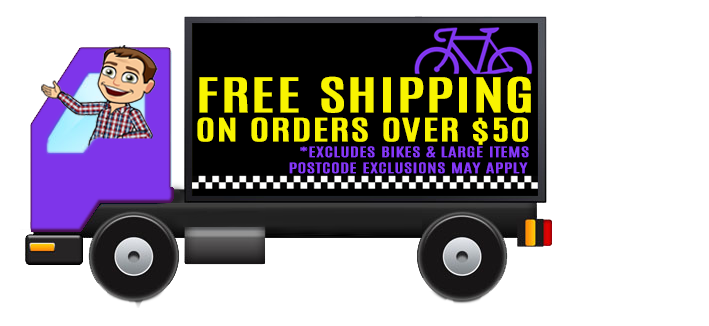
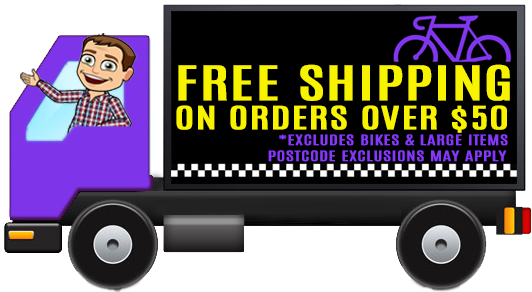
Fix responsive truck img

diff --git a/skin/frontend/tv_bikeworld_package/tv_bikeworld2/css/styles.css b/skin/frontend/tv_bikeworld_package/tv_bikeworld2/css/styles.css
@@ -11723,57 +11723,34 @@ p.welcome-msg {
   font-weight: bold;
 }
 
-.truck-free img {
-  margin-left: 25px;
-  margin-top: 8%;
+.truck-free-desktop img {
+  width: 80%;
+  margin: 15px auto;
+  display: block;
 }
 
 @media  screen and (max-width: 1600px) {
-  .truck-free img {
+  .truck-free-desktop img {
     margin-top: 14%;
   }
 }
 
+.truck-free-mobile {
+  display: none;
+}
+
 @media  screen and (max-width: 990px) {
-  .truck-free {
-    position: absolute;
+  .truck-free-desktop {
+    display: none;
   }
-  .truck-free img {
+
+  .truck-free-mobile {
+    display: block;
+  }
+  .truck-free-mobile img {
     width: 50%;
-    text-align: center;
-    margin: 0 auto;
+    margin: 15px auto;
     display: block;
-    padding-left: 25px;
-  }
-}
-
-@media  screen and (min-width: 466px) and (max-width: 768px) {
-  #search_mini_form {
-    margin-top: 40px;
-  }
-  .truck-free img {
-    width: 40%;
-    text-align: center;
-    margin: 0 auto;
-    display: block;
-    padding-left: 57px;
-    padding-top: 160px;
-  }
-}
-
-@media  screen and (max-width: 376px) {
-  .truck-free img {
-    width: 65%;
-    text-align: center;
-    margin: 0 auto;
-    display: block;
-    padding-left: 0px;
-  }
-}
-
-@media  screen and (max-width: 425px) {
-  .truck-free img {
-    width: 53%;
   }
 }
 
@@ -14515,7 +14492,11 @@ A.awblog_current_comment {
 @media (min-width: 992px) and (max-width: 1200px) {
   /* line 26, ../sass/template/_responsive.scss */
   .header a.logo {
-    padding-top: 8px;
+    padding-top: 28px;
+  }
+
+  .truck-free-desktop img {
+    margin-top: 31%;
   }
 
   /* line 29, ../sass/template/_responsive.scss */
@@ -14542,7 +14523,7 @@ A.awblog_current_comment {
 
   /* line 54, ../sass/template/_responsive.scss */
   .form-search input.input-text {
-    width: 60%;
+    width: 40%;
   }
 
   /* line 57, ../sass/template/_responsive.scss */
@@ -15138,7 +15119,7 @@ and (orientation : landscape) {
     display: none;
   }
   .page-header-content .form-search {
-    background: rgba(0, 0, 0, 0) none repeat scroll 0 0;
+    background: rgba(255, 255, 255, 1) none repeat scroll 0 0;
     border: 2px solid #e5e5e5;
     margin: 0;
     position: relative;
@@ -15146,6 +15127,8 @@ and (orientation : landscape) {
   }
 
 }
+
+
 
 .yoursaving {
   position: relative;
